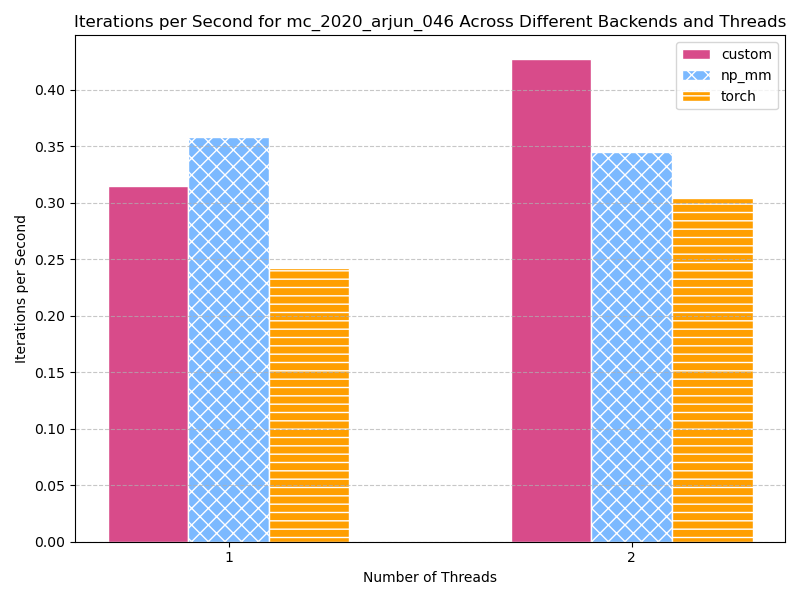
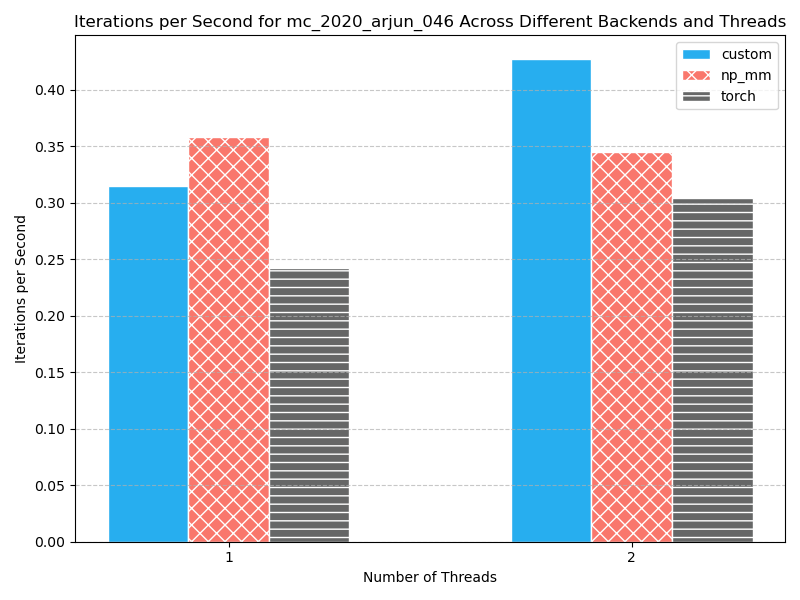
unified colors and patterns of plot bars

diff --git a/data/plots_dict.py b/data/plots_dict.py
@@ -126,8 +126,7 @@ def plot_threads():
     data = load_dictionary("threads.txt")
     thread_numbers = [int(thread) for thread in data.keys()]
     backends = list(next(iter(data["1"].values())).keys())  # Extract backend names
-    
-    colors = ["#D84B8A", "#7BB9FF", "#FF9F00"] # Custom colors for different backends
+    colors = ["#27AEEF", "#F9776C", "#666767"] # Custom colors for different backends
     hatch_patterns = ["", "xx", "--"]  # Patterns for accessibility
     bar_width = 0.2  # Width of each bar
 
